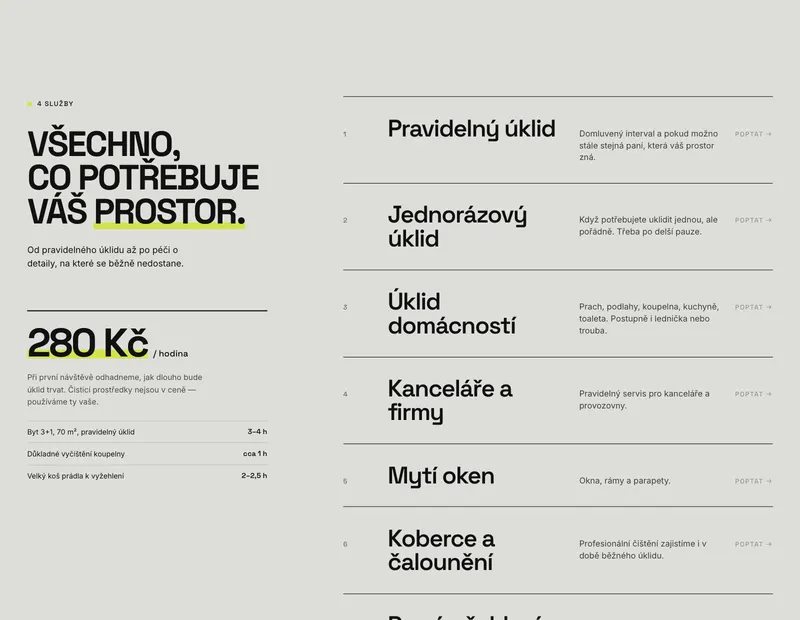
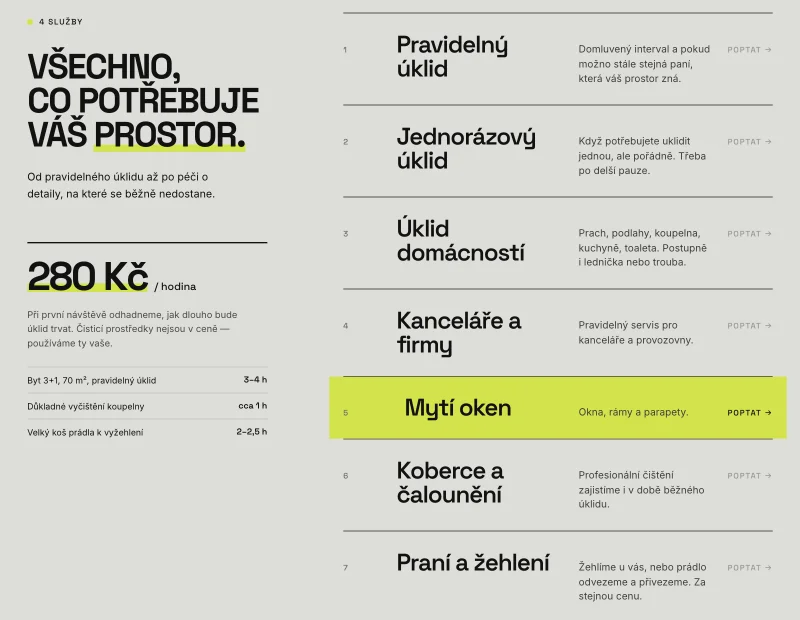
Neniuklid case study: closer services shot with lime hover row

diff --git a/work/neniuklid.html b/work/neniuklid.html
@@ -196,7 +196,7 @@
 
     <div class="nu-price">
       <figure class="figure"><img src="../assets/img/neniuklid/before-price.webp" width="900" height="720" alt="Before: the FAQ page, where the price explanation is one paragraph among many" loading="lazy"><figcaption><b>Before:</b> how the price is estimated, and what a typical job takes, were paragraphs in the FAQ.</figcaption></figure>
-      <figure class="figure"><img src="../assets/img/neniuklid/after-price.webp" srcset="../assets/img/neniuklid/after-price-800.webp 800w, ../assets/img/neniuklid/after-price.webp 1600w" sizes="(max-width: 900px) 92vw, 540px" width="1600" height="1240" alt="After: the services list with the hourly price and time examples" loading="lazy"><figcaption><b>After:</b> the price and real time examples sit right next to the services.</figcaption></figure>
+      <figure class="figure"><img src="../assets/img/neniuklid/after-price.webp?v=2" srcset="../assets/img/neniuklid/after-price-800.webp?v=2 800w, ../assets/img/neniuklid/after-price.webp?v=2 1600w" sizes="(max-width: 900px) 92vw, 540px" width="1600" height="1240" alt="After: the services list with the hourly price and time examples" loading="lazy"><figcaption><b>After:</b> the price and real time examples sit right next to the services.</figcaption></figure>
     </div>
   </div>
 </section>
